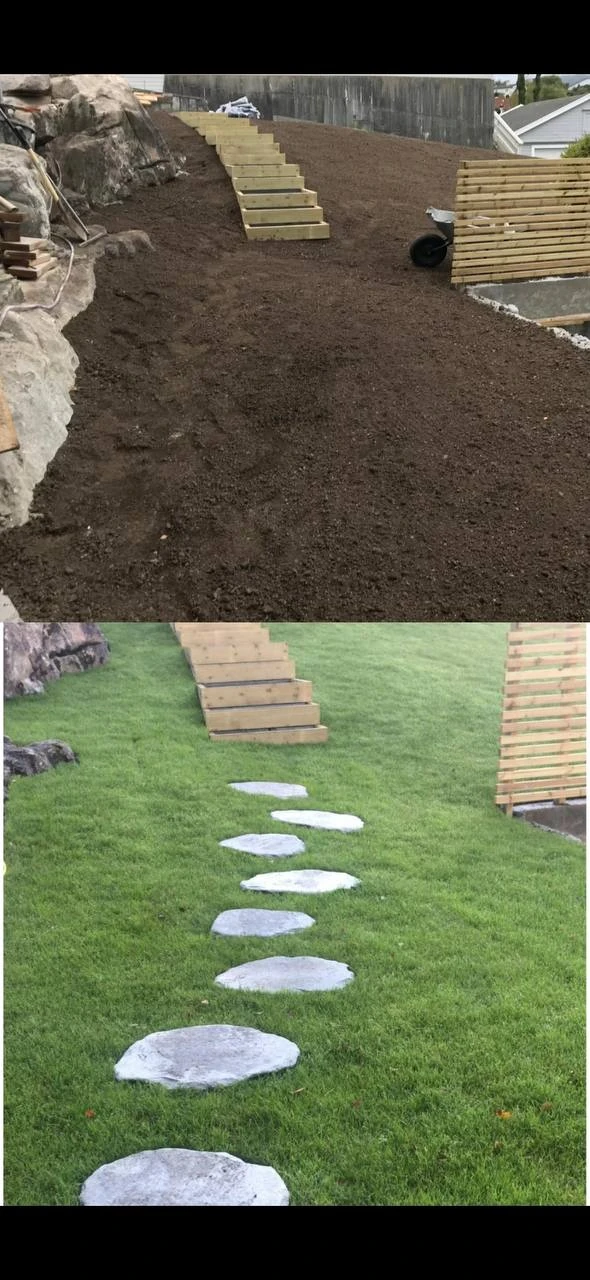
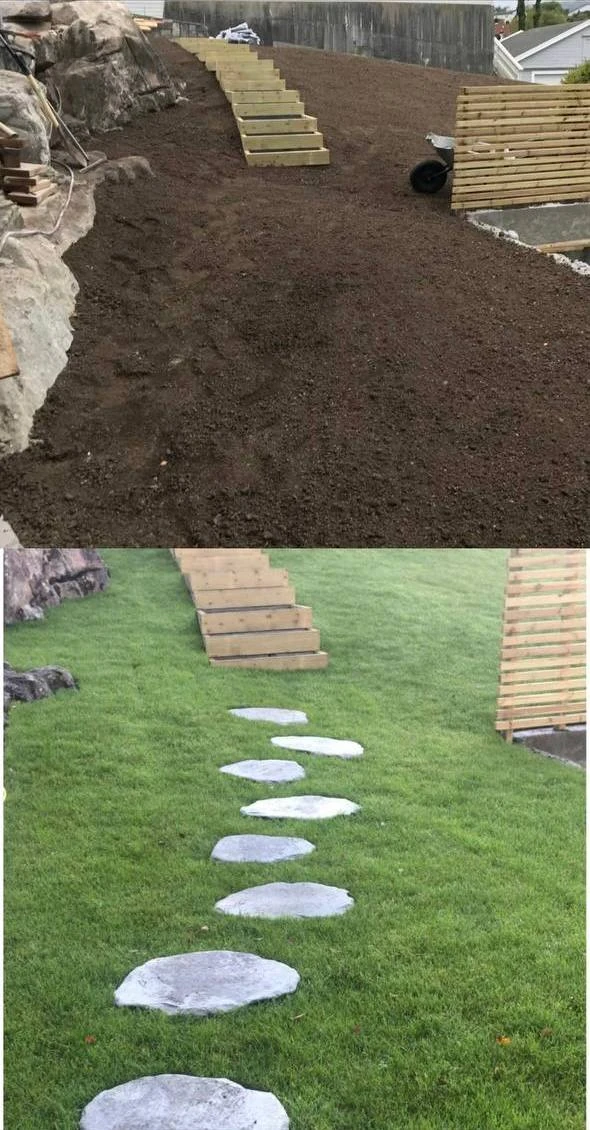
Replace final before and after gallery image

diff --git a/index.html b/index.html
@@ -506,13 +506,13 @@
             </figure>
             <figure class="gallery-new gallery-new-portrait">
               <img
-                src="assets/gallery/gallery-new-19.webp"
+                src="assets/gallery/gallery-new-19.webp?v=2"
                 alt="Nytt prosjekt 19 – før og etter"
                 loading="lazy"
                 decoding="async"
                 width="590"
-                height="1280"
-                style="aspect-ratio: 590 / 1280;"
+                height="1130"
+                style="aspect-ratio: 590 / 1130;"
               />
             </figure>
             <!-- NEW GALLERY PHOTOS END -->
